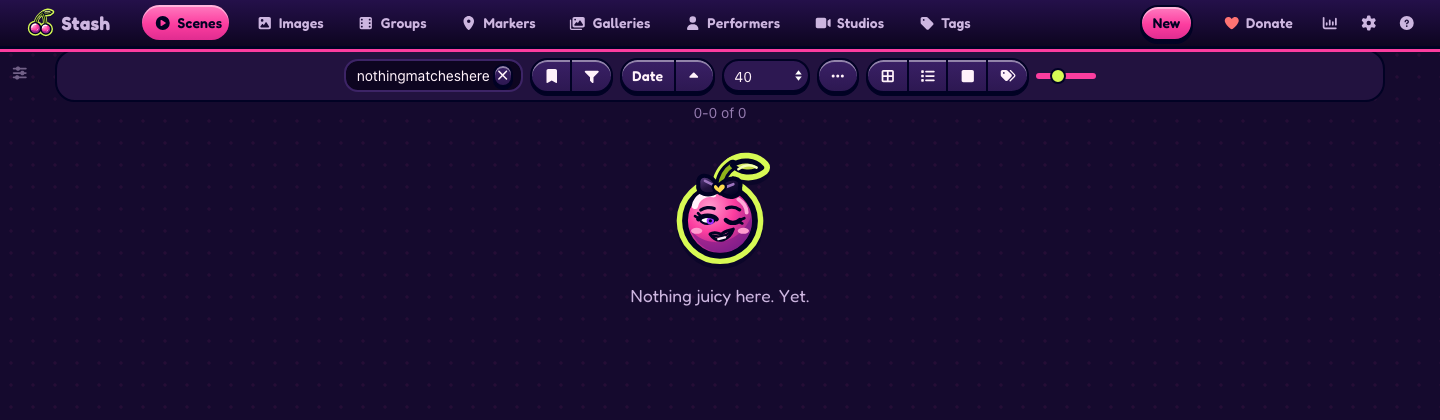
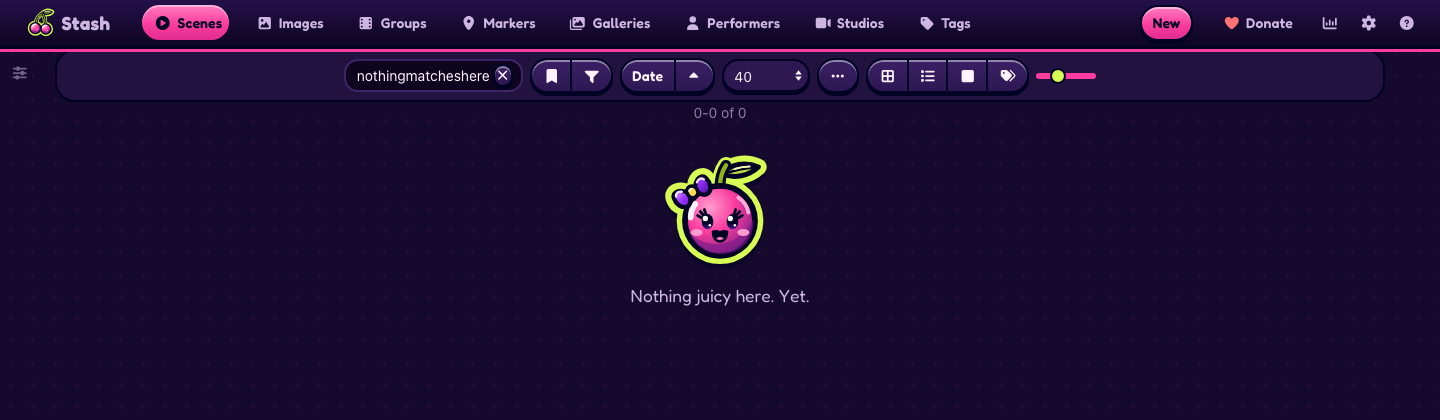
Redraw the mascot as a cherry girl and release Juicy 0.4.0
The old mascot's wink, half-lidded eye, brows and smirk blurred into a
smudge below about 48px. The new face uses solid shapes only: big glossy
eyes with lashes, an open smile and blush, plus a purple bow worn on one
side of the head. The leaf now grows from the side of the stem, tucked
behind it, so the stem's round end no longer shows past the leaf's base.

The README's empty-list screenshot is retaken on a throwaway Stash
v0.31.1 with the demo library.

Changed region(s): [[0.4375, 0.3405, 0.5312, 0.5881]]

diff --git a/plugins/juicy/README.md b/plugins/juicy/README.md
@@ -2,7 +2,7 @@
 
 A pink, playful theme for [Stash](https://github.com/stashapp/stash), the self-hosted media organizer. Juicy installs as a Stash plugin, so you switch it on, off or update it from Settings > Plugins instead of pasting CSS into the Custom CSS box.
 
-Juicy brings glossy candy stickers, gold hearts for ratings, a gum-bubble loader and a little cheek in the wording. Calm mode and Plain labels settings turn the motion and the copy down, and Stash's SFW mode keeps the candy and drops the cheek. The [live preview](https://candyboudoir.github.io/juicy/) shows every component on Stash's own markup, and the design rules are in [docs/design.md](docs/design.md). Juicy 0.3.2 is built and tested on Stash v0.31.1, including the Tagger and scrape screens that a stash-box such as StashDB adds.
+Juicy brings glossy candy stickers, gold hearts for ratings, a gum-bubble loader and a little cheek in the wording. Calm mode and Plain labels settings turn the motion and the copy down, and Stash's SFW mode keeps the candy and drops the cheek. The [live preview](https://candyboudoir.github.io/juicy/) shows every component on Stash's own markup, and the design rules are in [docs/design.md](docs/design.md). Juicy 0.4.0 is built and tested on Stash v0.31.1, including the Tagger and scrape screens that a stash-box such as StashDB adds.
 
 ![The scenes page with Juicy: glossy sticker cards with gold rating badges on a dotted plum background](docs/screenshots/scenes.png)
 
@@ -35,7 +35,7 @@ Juicy's settings sit with the plugin under Settings > Plugins. Both start off.
 
 ![Juicy's two settings under Settings > Plugins](docs/screenshots/settings.png)
 
-Juicy also follows your system's reduced-motion setting. In Stash's SFW content mode it keeps the colours, drops the cheeky copy and the drips, and shows a heart instead of the winking mascot.
+Juicy also follows your system's reduced-motion setting. In Stash's SFW content mode it keeps the colours, drops the cheeky copy and the drips, and shows a heart instead of the mascot.
 
 Juicy makes no network requests beyond your own Stash server. Its font, Fredoka, ships inside the plugin.
 

diff --git a/plugins/juicy/docs/design.md b/plugins/juicy/docs/design.md
@@ -38,7 +38,7 @@ Stickers are the decorative icons: `mascot`, `cherry`, `heart`, `lips`, `heart-l
 3. The body: a glossy radial or linear gradient with a 3.5 ink outline.
 4. The relief and shine: clipped violet shadows on pink candy, facets on gold and lime, and curved cream reflections that follow each shape. Smaller rim reflections keep the volume readable on dark backgrounds.
 
-The mascot adds a satin bow with a gold heart, violet eyes, a wink and glossy lips. Its face stays readable at 32px; larger empty states reveal the bow folds and cheek highlights. Decorative stickers remain transparent vectors with local references only. Keep the mask glyphs flat so their silhouettes stay clear at control sizes.
+The mascot is a cherry girl with a purple bow on one side of her head, big glossy eyes with lashes, an open smile and blush. Her leaf grows from the side of the stem, tucked behind it. Her face is built from solid shapes with no fine lines, so it stays readable at 24px; the lashes and the shine on the bow show from about 48px. Decorative stickers remain transparent vectors with local references only. Keep the mask glyphs flat so their silhouettes stay clear at control sizes.
 
 Glyphs (`glyph-*.svg`) are flat silhouettes on a 24-unit grid. The theme uses them as CSS masks over `currentcolor`, so one file serves every colour: hearts replace the rating stars, the drip replaces the O counter's drops.
 
@@ -64,7 +64,7 @@ Cheeky copy swaps a short list of Stash's own messages for flirtier ones (the li
 
 ## SFW mode
 
-Stash's SFW content mode keeps Juicy's colours and drops the cheek: cheeky copy is off, bursts lose their drips, the empty state shows a heart instead of the winking mascot, and Stash's own SFW icon swap (a thumbs-up for the O counter) is left alone.
+Stash's SFW content mode keeps Juicy's colours and drops the cheek: cheeky copy is off, bursts lose their drips, the empty state shows a heart instead of the mascot, and Stash's own SFW icon swap (a thumbs-up for the O counter) is left alone.
 
 ## Settings
 

diff --git a/plugins/juicy/CHANGELOG.md b/plugins/juicy/CHANGELOG.md
@@ -1,5 +1,12 @@
 # Changelog
 
+## 0.4.0
+
+A new mascot, for Stash v0.31.1.
+
+- The cherry on empty lists is redrawn as a girl, with a purple bow on one side of her head, lashes, big glossy eyes and an open smile. Her face reads at small sizes, where the old wink and smirk blurred together.
+- Her leaf grows from the side of the stem, tucked behind it. The stem's dark end had shown past the leaf's base.
+
 ## 0.3.2
 
 Juicy moves to the CandyBoudoir plugin source, for Stash v0.31.1.
